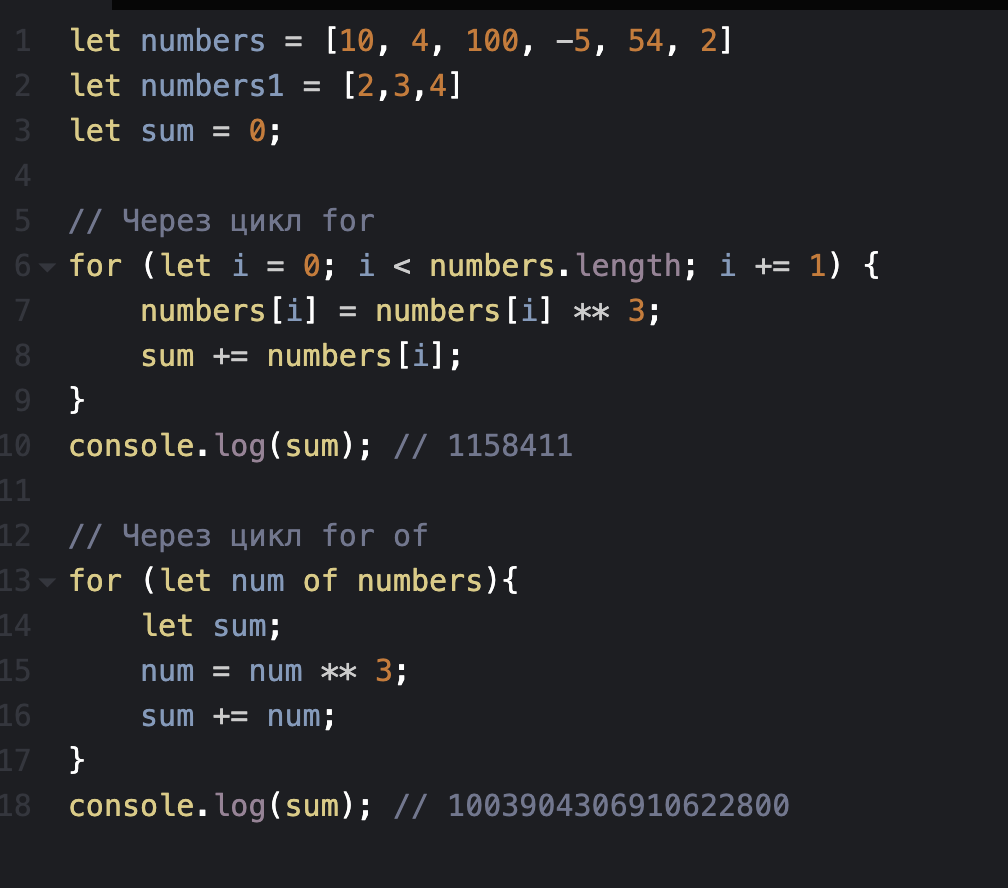
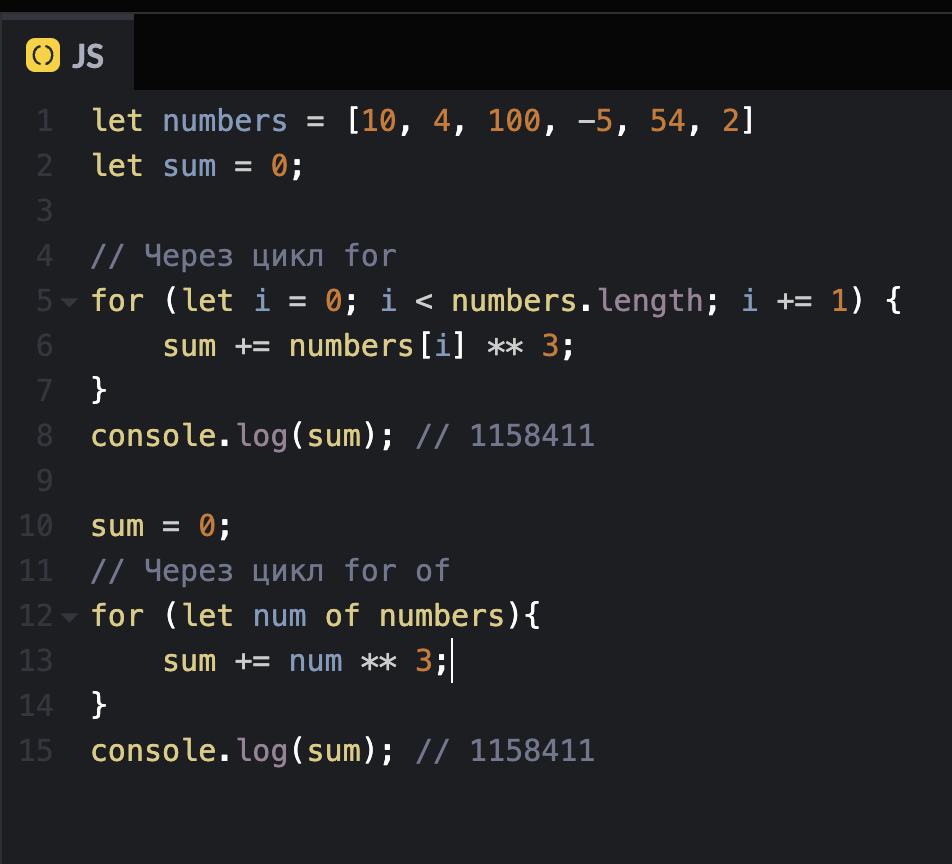
fix

diff --git a/index3.html b/index3.html
@@ -25,10 +25,8 @@
             <h1 class="debug__header">Ошибки в четвертом коде:</h1>
             <p>1.Честно, я эту задачу не особо понял</p>
             <img src="./img/yasdelal`.png" width="300px" alt="">
-            <p>2.Но когда создаешь переменную внутри второго цикла - все работает</p>
-            <img src="./errors/error17.png" alt="">
-            <p>3.Хотя через консоль после первого цикла переменная без проблем обнуляется</p>
-            <img src="./errors/error16.png" alt="">
+            <p>2.Но потом понял когда мы ее разобрали</p>
+            <p>3.Нужно не менять сам массив, а работать отдельно с каждым индексом в циклах отдельно</p>
             <p>4.Код с исправлениями</p>
             <img src="./errors/error15.png" alt="">
             <br>

diff --git a/index1.html b/index1.html
@@ -31,6 +31,7 @@
             <img src="./errors/error9.png" alt="">
             <p>4.Код с депукерами</p>
             <img src="./errors/error10.png" alt="">
+            <a target="_blank" href="https://codepen.io/SadBatya/pen/KKrPyvb">Ссылка на codepen</a>
           </div>
         </div>
       </div>
